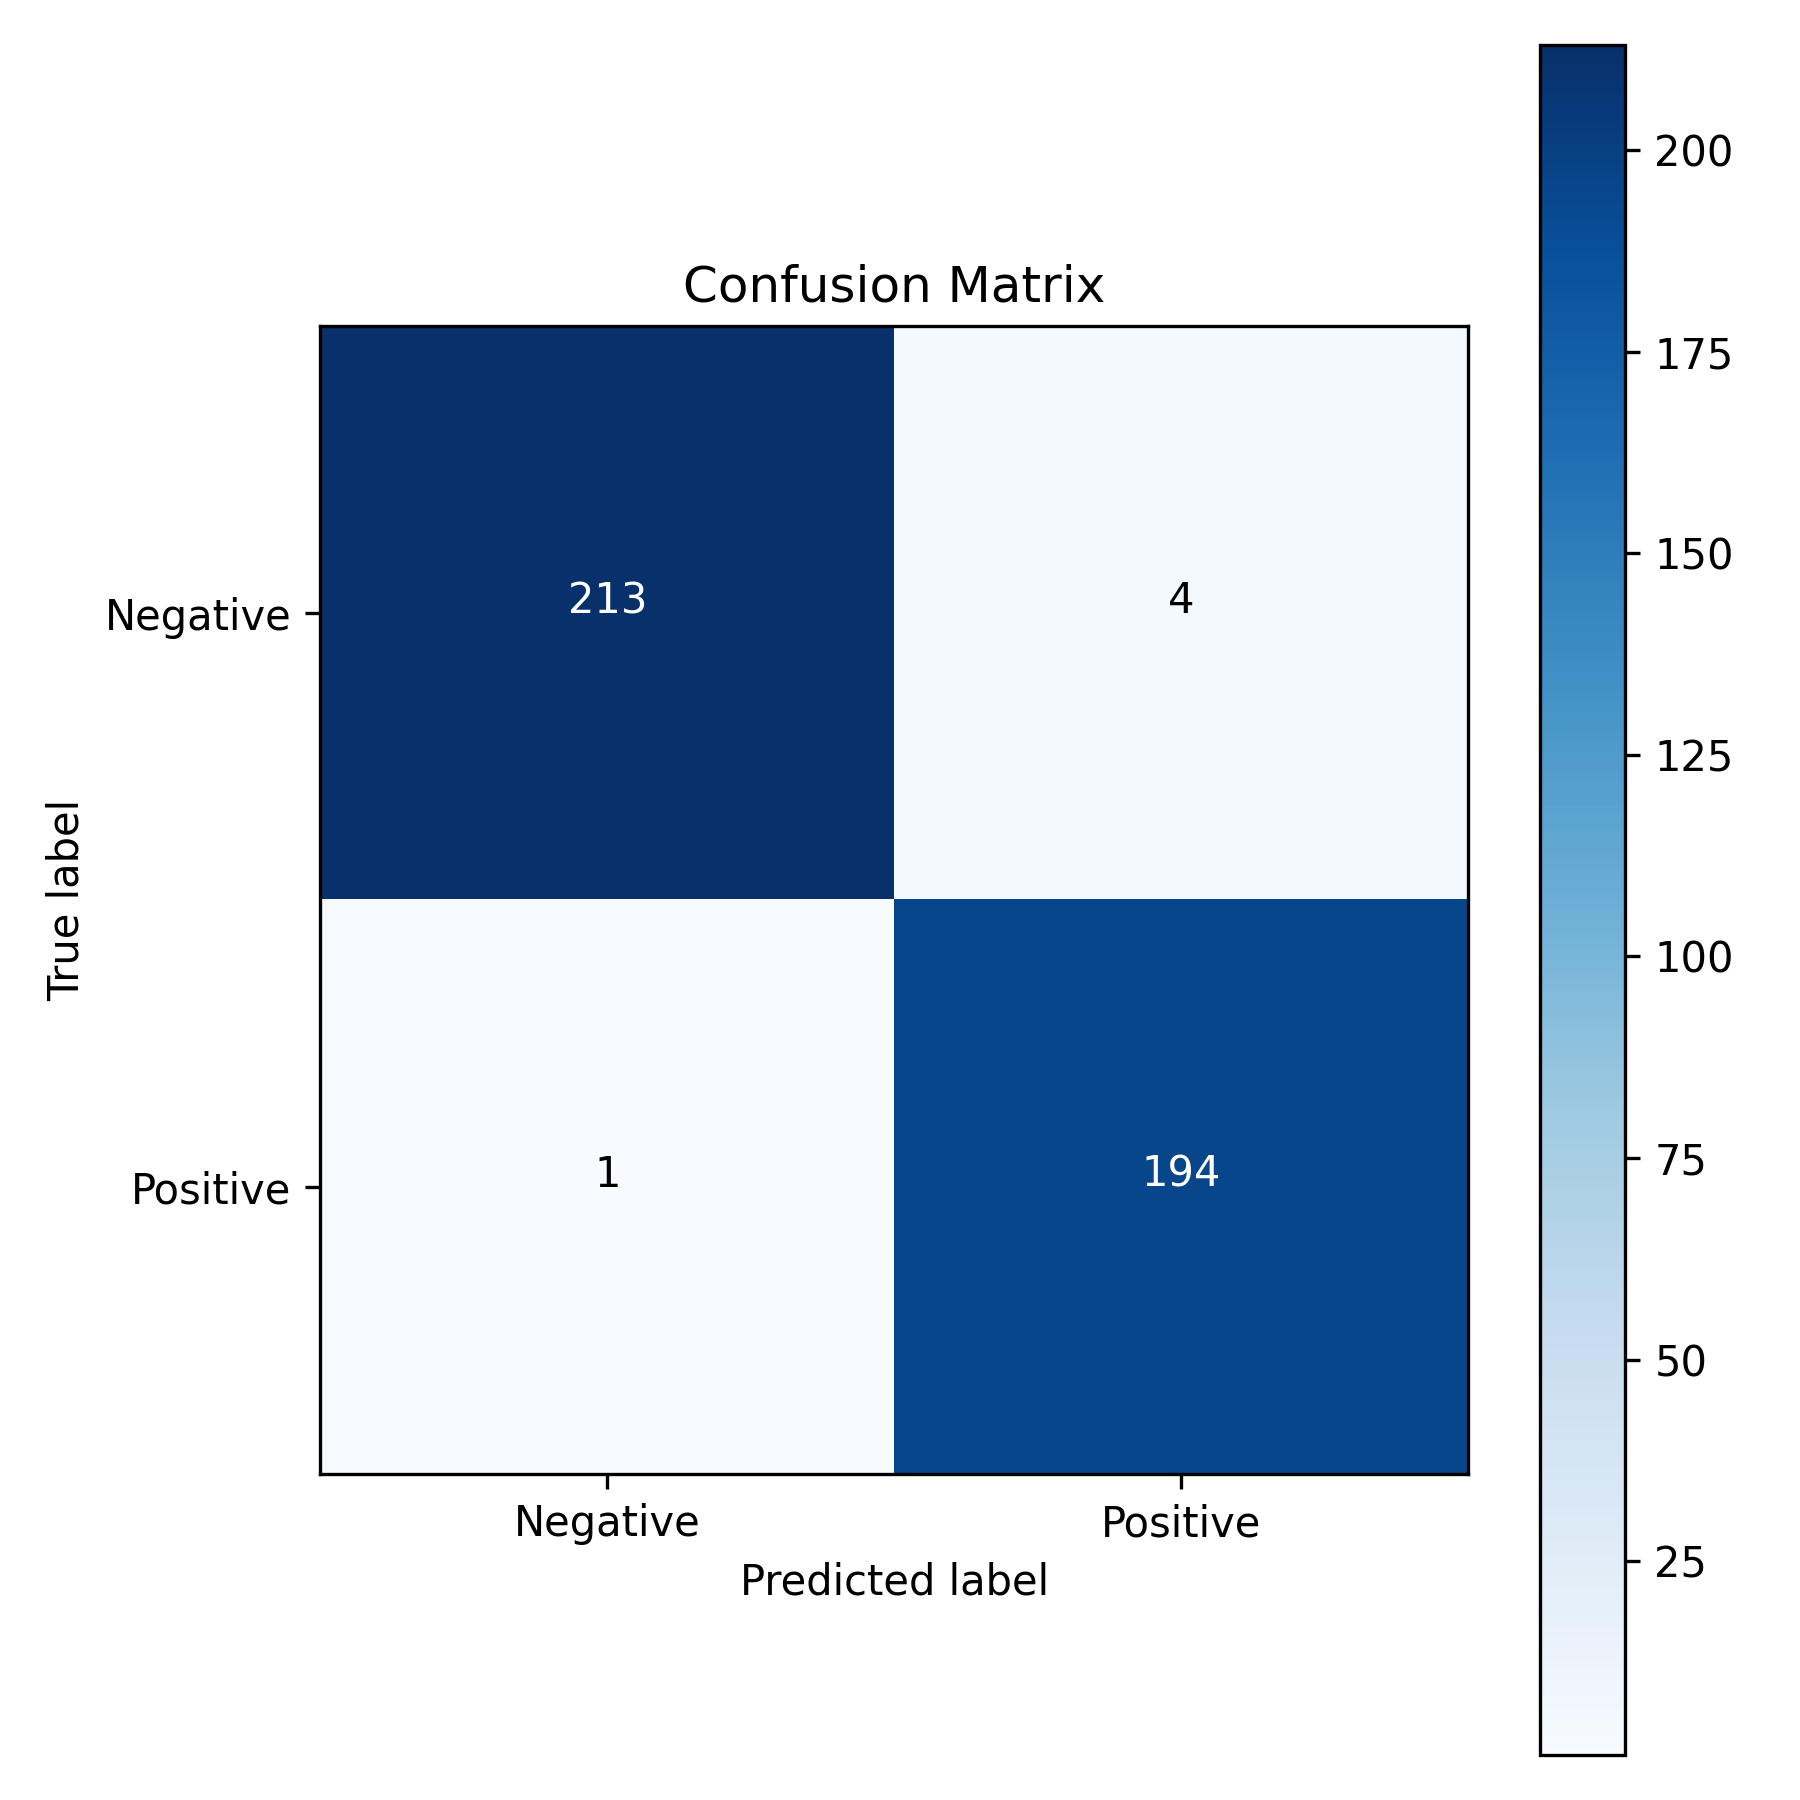
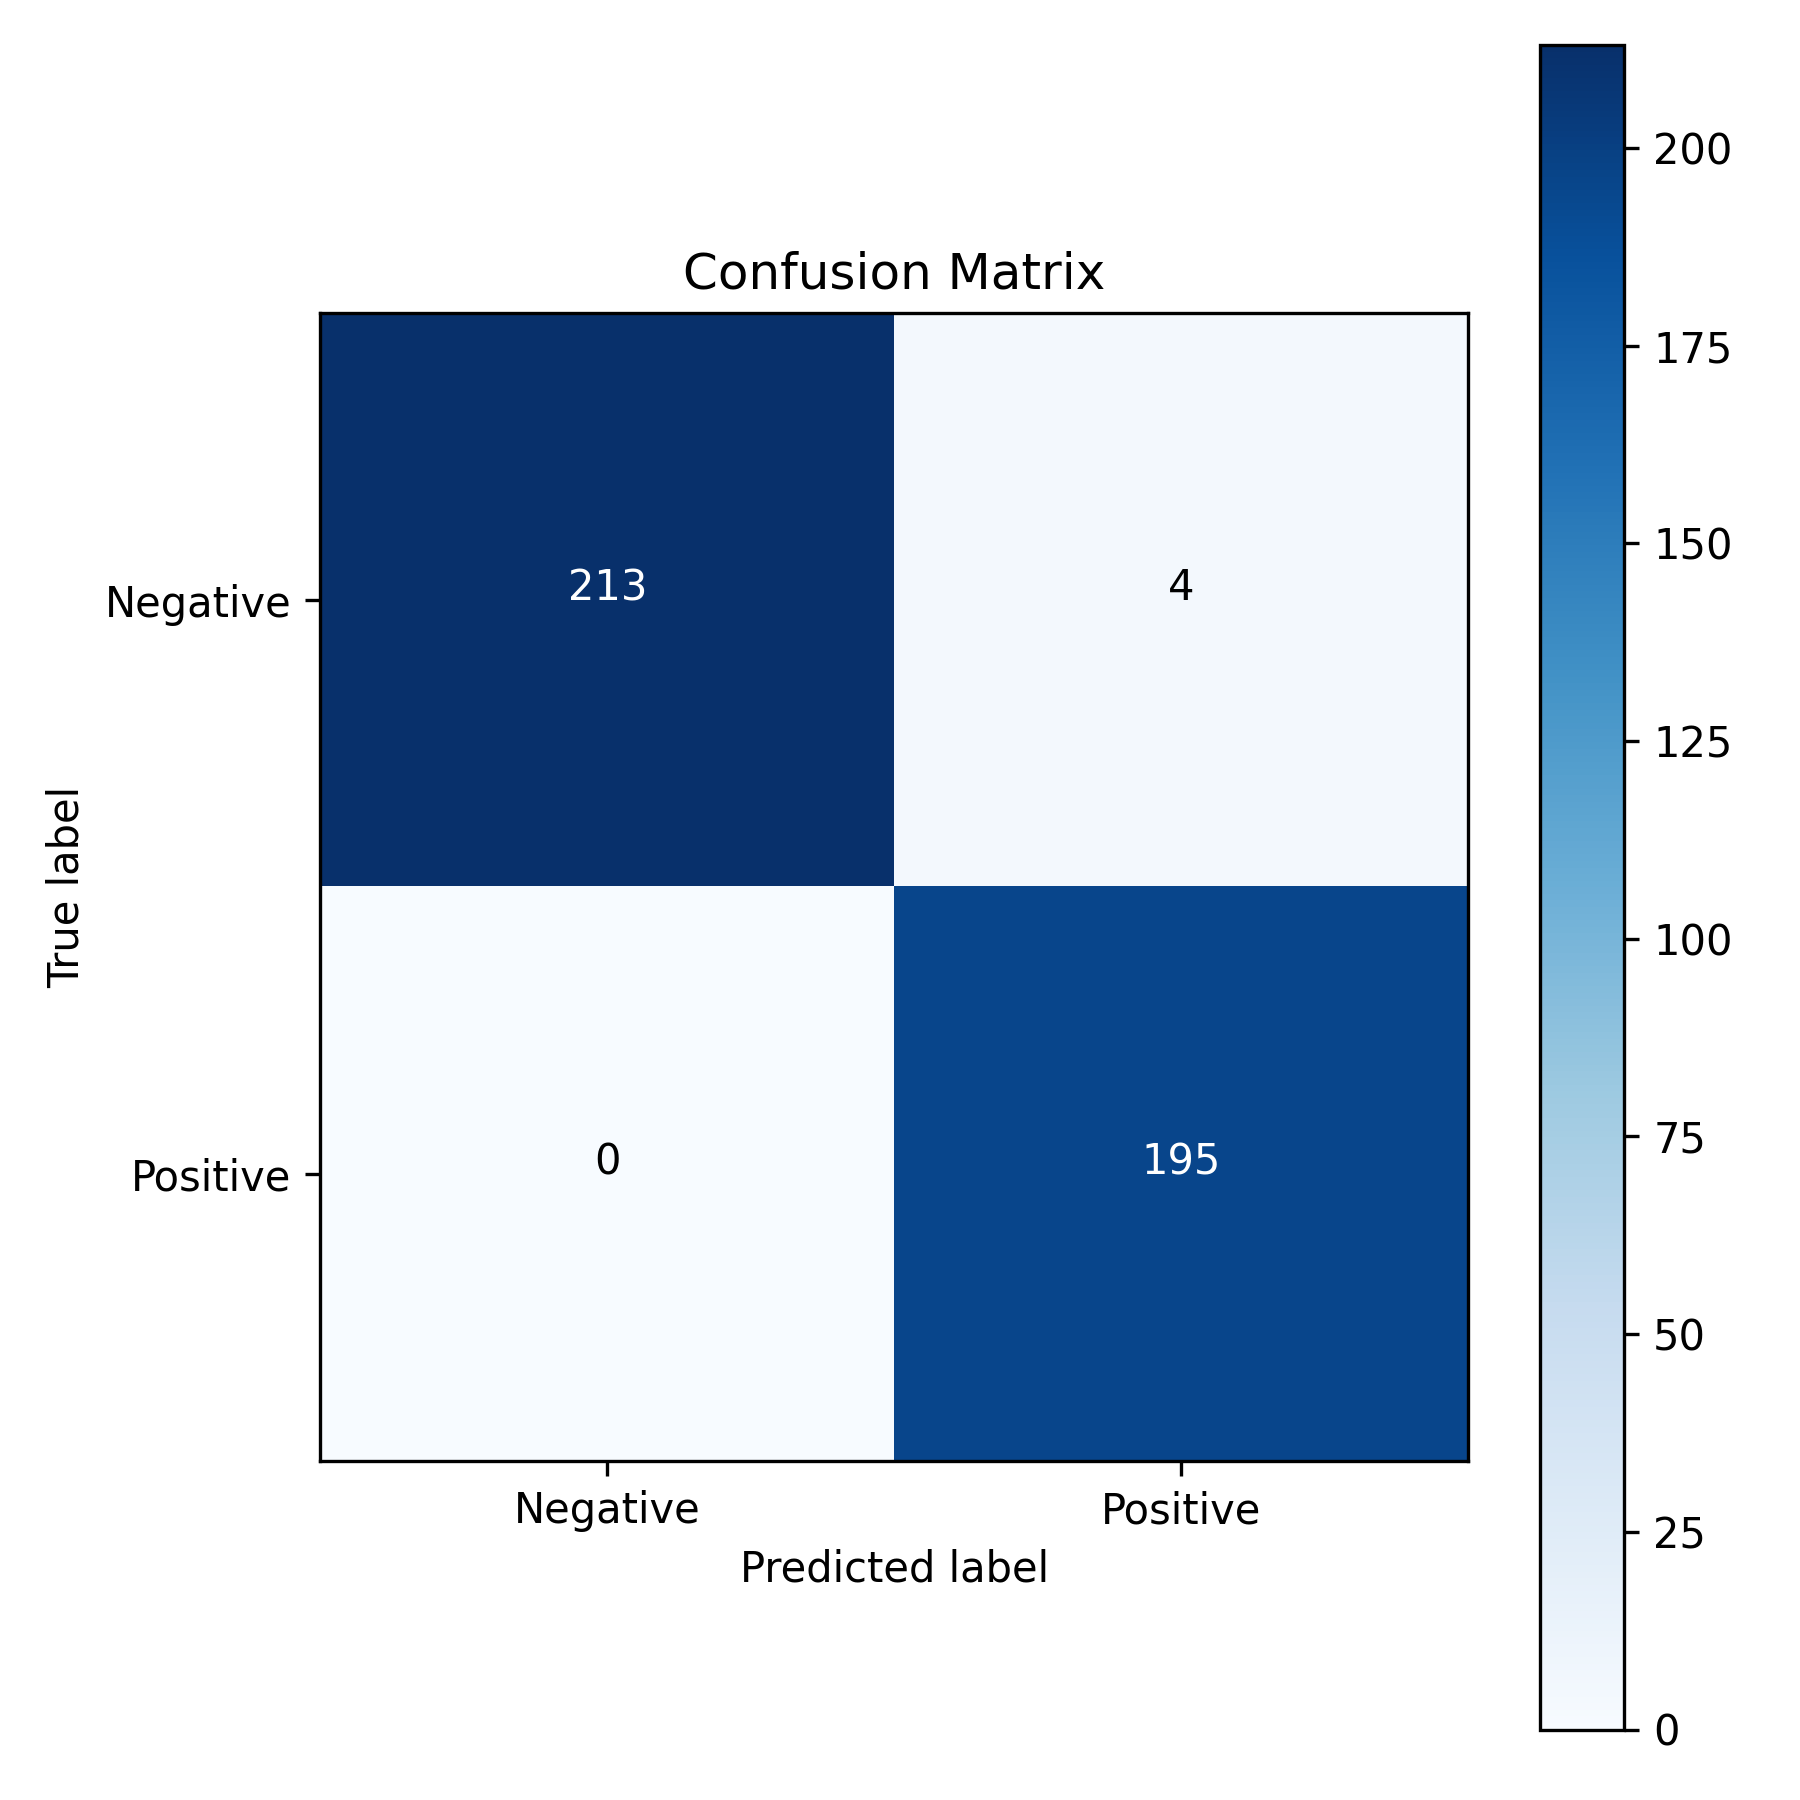
Adicionando Grid_Search básico

diff --git a/utils/grid_search.py b/utils/grid_search.py
@@ -1,0 +1,45 @@
+import itertools
+import numpy as np
+from utils.treinamento import treinar
+
+def grid_search(taxas_aprendizado, lista_epocas, X_treino, y_treino):
+
+    # 2. Cria todas as combinações possíveis
+    # Exemplo: (0.01, 100), (0.01, 500), (0.05, 100)...
+    combinacoes = list(itertools.product(taxas_aprendizado, lista_epocas))
+
+    # Variáveis para guardar os melhores resultados
+    melhor_mse = float('inf') # Começa com infinito para que qualquer erro seja menor
+    melhores_parametros = {}
+    melhores_pesos = None
+    melhor_historico = []
+
+    print("="*60)
+
+    print(f"Iniciando Grid Search com {len(combinacoes)} combinações...\n")
+
+    for lr, epocas in combinacoes:
+        print(f"Treinando -> Learning Rate: {lr} | Épocas: {epocas}")
+        
+        # 3. Treina a rede com a combinação atual
+        # (Assumindo que X_treino e y_treino já estão definidos e num_neuronios_saida=2)
+        pesos, historico_mse = treinar(X_treino, y_treino, learning_rate=lr, epocas=epocas, num_neuronios_saida=2)
+        
+        # 4. Avalia o resultado (usamos o MSE da última época)
+        erro_final = historico_mse[-1]
+        
+        # 5. Se for o menor erro encontrado até agora, salva tudo!
+        if erro_final < melhor_mse:
+            melhor_mse = erro_final
+            melhores_parametros = {'learning_rate': lr, 'epocas': epocas}
+            melhores_pesos = pesos
+            melhor_historico = historico_mse
+
+    # 6. Exibe o grande vencedor
+    print("\n" + "="*60)
+    print(f"🎯 MELHOR COMBINAÇÃO ENCONTRADA:")
+    print(f"Parâmetros: {melhores_parametros}")
+    print(f"Erro (MSE) Final: {melhor_mse:.6f}")
+    print("="*60)
+
+    return melhores_parametros

diff --git a/main.py b/main.py
@@ -4,6 +4,7 @@ import matplotlib.pyplot as plt
 from utils.treinamento import activation_function, treinar, predicao
 from utils.pre_processamento import divisao_teste_treino, min_max_scaler
 from utils.metrics import classification_report, erros_epocas, mean_squared_error
+from utils.grid_search import grid_search
 
 df = pd.read_csv(r"data\data_banknote_authentication.txt",
                  sep= ',', header= None)
@@ -23,8 +24,18 @@ divisao_treino = 0.7
 X_treino, y_treino, X_teste, y_teste = divisao_teste_treino( df, divisao_treino, num_neuronios_saida, seed = True)
 X_treino_normalizado = min_max_scaler( X_treino )
 
-learning_rate = 0.05
-epocas = 100
+# Grid Search
+
+# Valores de teste
+taxas_aprendizado = [0.01, 0.05, 0.1, 0.5]
+lista_epocas = [50, 100, 200]
+
+melhores_parametros = grid_search(taxas_aprendizado, lista_epocas, X_treino, y_treino)
+
+learning_rate = melhores_parametros['learning_rate']
+epocas = melhores_parametros['epocas']
+
+# Treinamento final
 pesos_t, erros_historico = treinar(X_treino, y_treino, learning_rate, epocas, num_neuronios_saida )
 
 # Erros por época
@@ -37,6 +48,9 @@ y_teste = np.argmax( y_teste, axis= 1)
 
 # Relatório de Classificação
 relatorio = classification_report(y_teste, y_predito, show=False, location='images')
-print("Relatório de Classificação:")
+
+print('='*60)
+print("Relatório de Classificação dos melhores hyperparâmetros:")
 for metric, valor in relatorio.items():
     print(f"  {metric}: {valor:.2%}")
+print('='*60)
